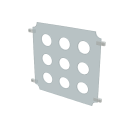
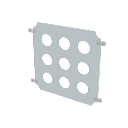
Unify flat panel body thickness and refresh part previews

diff --git a/src/engine/confirmedComponentMeshes.js b/src/engine/confirmedComponentMeshes.js
@@ -8,6 +8,7 @@ import fontData from 'three/examples/fonts/helvetiker_regular.typeface.json';
 import { confirmedSpec, confirmedColor, legoStudHeight } from './componentPack.js';
 import { insetScrewMeshes } from './insetPanelMeshes.js';
 import { COLOR_HEX } from './colors.js';
+import { geometry } from './catalog.js';
 import { confirmedFrame, curvePoint, worldToLocal, rungPositions } from './confirmedComponentModel.js';
 const font=new FontLoader().parse(fontData);
 const colors=['#e64343','#ffcf3d','#f09cbc','#74b166','#318dde','#9c75cb'];
@@ -88,7 +89,8 @@ function outline(w,h,feature) {
   }
   shape.lineTo(-x+n,y);shape.absarc(-x,y,n,0,-Math.PI/2,true);shape.lineTo(-x,-y+n);shape.absarc(-x,-y,n,Math.PI/2,0,true);shape.closePath();return shape;
 }
-function plateGeometry(w,h,feature,depth=1.2) {
+function plateGeometry(w,h,feature) {
+  const depth=geometry().panelThickness,bevel=feature==='acrylic'?0:Math.min(0.06,depth/4);
   const shape=outline(w,h,feature);
   if(feature==='holes' || feature==='acrylic_holes')for(const x of [-w*0.28,0,w*0.28])for(const y of [-h*0.28,0,h*0.28])shape.holes.push(new THREE.Path().absarc(x,y,3.2,0,Math.PI*2,true));
   if(feature==='honeycomb')for(let row=-7;row<=7;row++)for(let col=-7;col<=7;col++) {
@@ -99,7 +101,9 @@ function plateGeometry(w,h,feature,depth=1.2) {
     const p=new THREE.Path();p.moveTo(x-0.32,y-0.6);p.lineTo(x-0.32,y+0.6);p.absarc(x,y+0.6,0.32,Math.PI,0,true);p.lineTo(x+0.32,y-0.6);p.absarc(x,y-0.6,0.32,0,-Math.PI,true);p.closePath();shape.holes.push(p);
   }
   if(feature==='castle'){const p=new THREE.Path();p.moveTo(-12,-3);p.lineTo(-12,0);p.lineTo(12,0);p.lineTo(12,-3);p.closePath();shape.holes.push(p);}
-  return new THREE.ExtrudeGeometry(shape,{depth,bevelEnabled:feature!=='acrylic',bevelThickness:feature==='honeycomb'?0.06:0.12,bevelSize:feature==='honeycomb'?0.06:0.12,bevelSegments:2,curveSegments:16});
+  const mesh=new THREE.ExtrudeGeometry(shape,{depth:depth-2*bevel,bevelEnabled:bevel>0,bevelThickness:bevel,bevelSize:bevel,bevelSegments:2,curveSegments:16});
+  mesh.translate(0,0,bevel);
+  return mesh;
 }
 function clips(f,model,part,color='#343a3e') {
   const frame=confirmedFrame(model,part);
@@ -133,9 +137,13 @@ function panelMeshes(scene,model,part,spec,frame) {
   const clear=['acrylic','acrylic_holes','capsule'].includes(feature);
   if(standard) {
     // 网格加载期间及低画质使用同样外宽和管顶高度，避免加载前后板面跳变。
-    const mesh=f.add(`plate:standard:${spec.id}`,()=>plateGeometry(spec.width-0.24,spec.height-0.24,feature),color,[0,0,1.19]);
+    const mesh=f.add(`plate:standard:${spec.id}`,()=>plateGeometry(spec.width-0.24,spec.height-0.24,feature),color,[0,0,2.51-geometry().panelThickness]);
     if(scene._panelMaterial)mesh.material=scene._panelMaterial(part.color,false,false);
-  } else if(feature!=='basin' && feature!=='grid' && feature!=='sensory')f.add(`plate:${w}:${h}:${feature}`,()=>plateGeometry(w,h,feature,clear?0.45:1.2),clear?'#eaf7fa':color,[0,0,1.8],null,clear?'glass':feature==='magnet'?'coated-metal':feature==='felt'?'cloth':'plastic');
+  } else if(feature!=='basin' && feature!=='grid' && feature!=='sensory') {
+    const faceHeight=({acrylic:2.25,acrylic_holes:2.37,capsule:2.37})[feature] ?? 3.12;
+    const materialType=clear?'glass':(({magnet:'coated-metal',felt:'cloth'})[feature] || 'plastic');
+    f.add(`plate:${w}:${h}:${feature}`,()=>plateGeometry(w,h,feature),clear?'#eaf7fa':color,[0,0,faceHeight-geometry().panelThickness],null,materialType);
+  }
   if(clear)f.meshes.push(...insetScrewMeshes(scene,model,part,frame));
   if(clear){
     const points=outline(w,h,feature).getPoints(64).map(p=>[p.x,p.y,2.2]);
@@ -232,7 +240,7 @@ function panelMeshes(scene,model,part,spec,frame) {
     const seam=outline(w-1.3,h-1.3,'felt').getPoints(80).map(p=>[p.x,p.y,3.08]);f.tube('felt-binding-seam',seam,.055,'#f6df85','cloth');
   }
   if(feature==='grid') {
-    for(let x=-17;x<=17;x+=3.4)f.box('grid-vertical',[0.5,34,0.65],'#f6f2e7',[x,0,2]);for(let y=-17;y<=17;y+=3.4)f.box('grid-horizontal',[34,0.5,0.65],'#f6f2e7',[0,y,2]);f.meshes.push(...insetScrewMeshes(scene,model,part,frame));
+    for(let x=-17;x<=17;x+=3.4)f.box('grid-vertical',[0.5,34,geometry().panelThickness],'#f6f2e7',[x,0,2]);for(let y=-17;y<=17;y+=3.4)f.box('grid-horizontal',[34,0.5,geometry().panelThickness],'#f6f2e7',[0,y,2]);f.meshes.push(...insetScrewMeshes(scene,model,part,frame));
   }
   return f.meshes;
 }
@@ -241,7 +249,7 @@ export function confirmedComponentMeshes(scene,model,part) {
   const spec=confirmedSpec(part.panelId||part.kind||part.partId),frame=confirmedFrame(model,part);if(!spec || !frame)return [];
   if(spec.placement==='panel')return panelMeshes(scene,model,part,spec,frame);
   const f=factory(scene,frame);
-  if(spec.feature==='sector') {f.add('sector-panel',()=>plateGeometry(40,40,'sector'),part.color||'#348ddd');clips(f,model,part);return f.meshes;}
+  if(spec.feature==='sector') {f.add('sector-panel',()=>plateGeometry(40,40,'sector'),part.color||'#348ddd',[0,0,1.32-geometry().panelThickness]);clips(f,model,part);return f.meshes;}
   if(spec.feature==='roller') {
     const rail=model._rail(part.tube),length=rail.len-12,r=spec.radius;
     f.add(`roller:${length}:${r}`,()=>{const g=new THREE.CylinderGeometry(r,r,length,48);g.rotateZ(Math.PI/2);return g;},'#f0d33f',[0,0,0],null,'cloth');

diff --git a/src/engine/panelThickness.test.ts b/src/engine/panelThickness.test.ts
@@ -1,0 +1,64 @@
+import { beforeAll, expect, it } from 'vitest'
+import { readFileSync } from 'node:fs'
+import * as THREE from 'three'
+import { loadCatalog, geometry } from './catalog.js'
+import { CONFIRMED_COMPONENTS } from './componentPack.js'
+import { confirmedComponentMeshes } from './confirmedComponentMeshes.js'
+import { createConfirmedComponentFixture } from './confirmedComponentExample.js'
+import { SceneManager } from './scene.js'
+
+beforeAll(loadCatalog)
+
+const flat = CONFIRMED_COMPONENTS.filter(part =>
+  (part.placement === 'panel' && !['basin', 'sensory'].includes(part.feature)) || part.feature === 'sector')
+
+// 读取真实组件夹具及几何；WebGL画面另由浏览器检查。
+it.each(flat.map(part => part.id))('%s 板身统一为3毫米，倒角不会增加厚度', id => {
+  const { model, part } = createConfirmedComponentFixture(id)
+  const cache = new Map<string, THREE.BufferGeometry>()
+  const scene = { _materials: {}, _cachedGeo: (key: string, make: () => THREE.BufferGeometry) => {
+    if (!cache.has(key)) cache.set(key, make())
+    return cache.get(key)!
+  } }
+  const meshes = confirmedComponentMeshes(scene, model, part).filter((mesh: THREE.Mesh) =>
+    mesh.name.startsWith('plate:') || mesh.name === 'sector-panel' || mesh.name.startsWith('grid-'))
+  expect(meshes.length).toBeGreaterThan(0)
+  for (const mesh of meshes) {
+    mesh.geometry.computeBoundingBox()
+    const bounds = mesh.geometry.boundingBox!
+    expect(bounds.max.z - bounds.min.z).toBeCloseTo(0.3, 5)
+  }
+})
+
+it('原生板身厚度一致，九洞正反面贯通，安装唇边独立保留', () => {
+  const records = JSON.parse(readFileSync('public/data/models/surfaces.json', 'utf8'))
+  for (const [key, value] of Object.entries(records)) {
+    if (!key.startsWith('panel2_') && key !== 'hole_panel_40x40') continue
+    const record = value as { pos: number[]; idx: number[] }
+    const body = record.pos.filter((z, i) => i % 3 === 2 && z > 0)
+    expect((Math.max(...body) - Math.min(...body)) / 100).toBeCloseTo(0.3)
+    expect(Math.max(...body) / 100).toBe(2.51)
+    expect(Math.min(...record.pos.filter((_, i) => i % 3 === 2)) / 100).toBe(-2.2)
+    if (key !== 'hole_panel_40x40') continue
+    const geo = new THREE.BufferGeometry()
+    geo.setAttribute('position', new THREE.Float32BufferAttribute(record.pos.map(v => v / 100), 3))
+    geo.setIndex(record.idx)
+    const mesh = new THREE.Mesh(geo, new THREE.MeshBasicMaterial({ side: THREE.DoubleSide }))
+    for (const sign of [-1, 1]) for (const x of [-12, 0, 12]) for (const y of [-12, 0, 12]) {
+      const ray = new THREE.Raycaster(new THREE.Vector3(x, y, sign * 10), new THREE.Vector3(0, 0, -sign))
+      expect(ray.intersectObject(mesh)).toHaveLength(0)
+    }
+    geo.dispose()
+    mesh.material.dispose()
+  }
+})
+
+it('旧版板件与透明窗片采用相同板身厚度', () => {
+  const scene = Object.create(SceneManager.prototype)
+  Object.assign(scene, { _panelGeos: new Map(), _keepGeos: new Set(), _quality: 'high' })
+  for (const geo of [scene._panelGeometry('hole_panel_40x40', 40, 40, geometry().panelThickness),
+    scene._acrylicPaneGeometry(40, 40, geometry().panelThickness)]) {
+    geo.computeBoundingBox()
+    expect(geo.boundingBox.max.y - geo.boundingBox.min.y).toBeCloseTo(0.3, 5)
+  }
+})

diff --git a/src/engine/accessoryMeshes.js b/src/engine/accessoryMeshes.js
@@ -4,6 +4,7 @@ import { ParametricGeometry } from 'three/examples/jsm/geometries/ParametricGeom
 import { accessorySpec, componentFrame, mountPoint } from './accessoryPack.js';
 import { confirmedComponentMeshes } from './confirmedComponentMeshes.js';
 import { insetScrewMeshes } from './insetPanelMeshes.js';
+import { geometry } from './catalog.js';
 
 const PALETTE = { blue: '#238fe4', yellow: '#ffd33c', cream: '#eee5d0', orange: '#f88929', green: '#48af63', red: '#eb4641', dark: '#363a3f', metal: '#b8bec2', rope: '#cdbc96', cloth: '#d8c8a9' };
 
@@ -76,8 +77,9 @@ function busyMeshes(scene, model, panel) {
   const frame = componentFrame(model, panel);
   if (!frame) return [];
   const f = meshFactory(scene, frame), { box, disc, add } = f;
-  box('busy-green-outline', [35.4, 35.4, 1.8], 'green', [0, 0, 0], 2.3);
-  box('busy-cream-board', [33.4, 33.4, 1.6], 'cream', [0, 0, 0.45], 1.8);
+  const thickness=geometry().panelThickness,center=1.25-thickness/2;
+  box('busy-green-outline', [35.4, 35.4, thickness], 'green', [0, 0, center], 2.3);
+  box('busy-cream-board', [33.4, 33.4, thickness], 'cream', [0, 0, center+0.01], 1.8);
   add('busy-blue-gear', () => gearGeometry(6.5, 12), 'plastic', 'blue', [-7.5, 7, 1.3]);
   add('busy-yellow-gear', () => gearGeometry(4.5, 10), 'plastic', 'yellow', [3.3, 7, 1.3]);
   disc('busy-gear-center-big', 1.1, 0.7, 'metal', [-7.5, 7, 3.2], 'metal');

diff --git a/src/engine/scene.js b/src/engine/scene.js
@@ -3232,7 +3232,7 @@ export class SceneManager {
     return [Math.max(1, w / 2 - frame), Math.max(1, d / 2 - frame)];
   }
 
-  /** Scheibe der Acrylglasplatte: flache Box im Fenster, duenner als der Rahmen. */
+  /** 透明窗片与板框使用相同板身厚度。 */
   _acrylicPaneGeometry(wSpan, dSpan, thickness) {
     const w = Math.max(1, wSpan - PANEL_GAP);
     const d = Math.max(1, dSpan - PANEL_GAP);
@@ -3240,7 +3240,7 @@ export class SceneManager {
     const hit = this._panelGeos.get(key);
     if (hit) return hit;
     const [ix, iy] = this._acrylicInner(w, d);
-    const geo = new THREE.BoxGeometry(ix * 2 + 0.6, thickness * 0.5, iy * 2 + 0.6);
+    const geo = new THREE.BoxGeometry(ix * 2 + 0.6, thickness, iy * 2 + 0.6);
     this._panelGeos.set(key, geo);
     this._keepGeos.add(geo);
     return geo;
@@ -4537,7 +4537,7 @@ export class SceneManager {
     }
 
     // Platten (flache Box in der Feld-Ebene) – im Verstaerken-/Kollisions-Modus ausgeblendet.
-    const thickness = geometry().panelThickness || 1.6;
+    const thickness = geometry().panelThickness;
     const middle = modelMiddle(model.nodes.values());
     for (const p of model.panels.values()) {
       if (hideFlat) continue;
